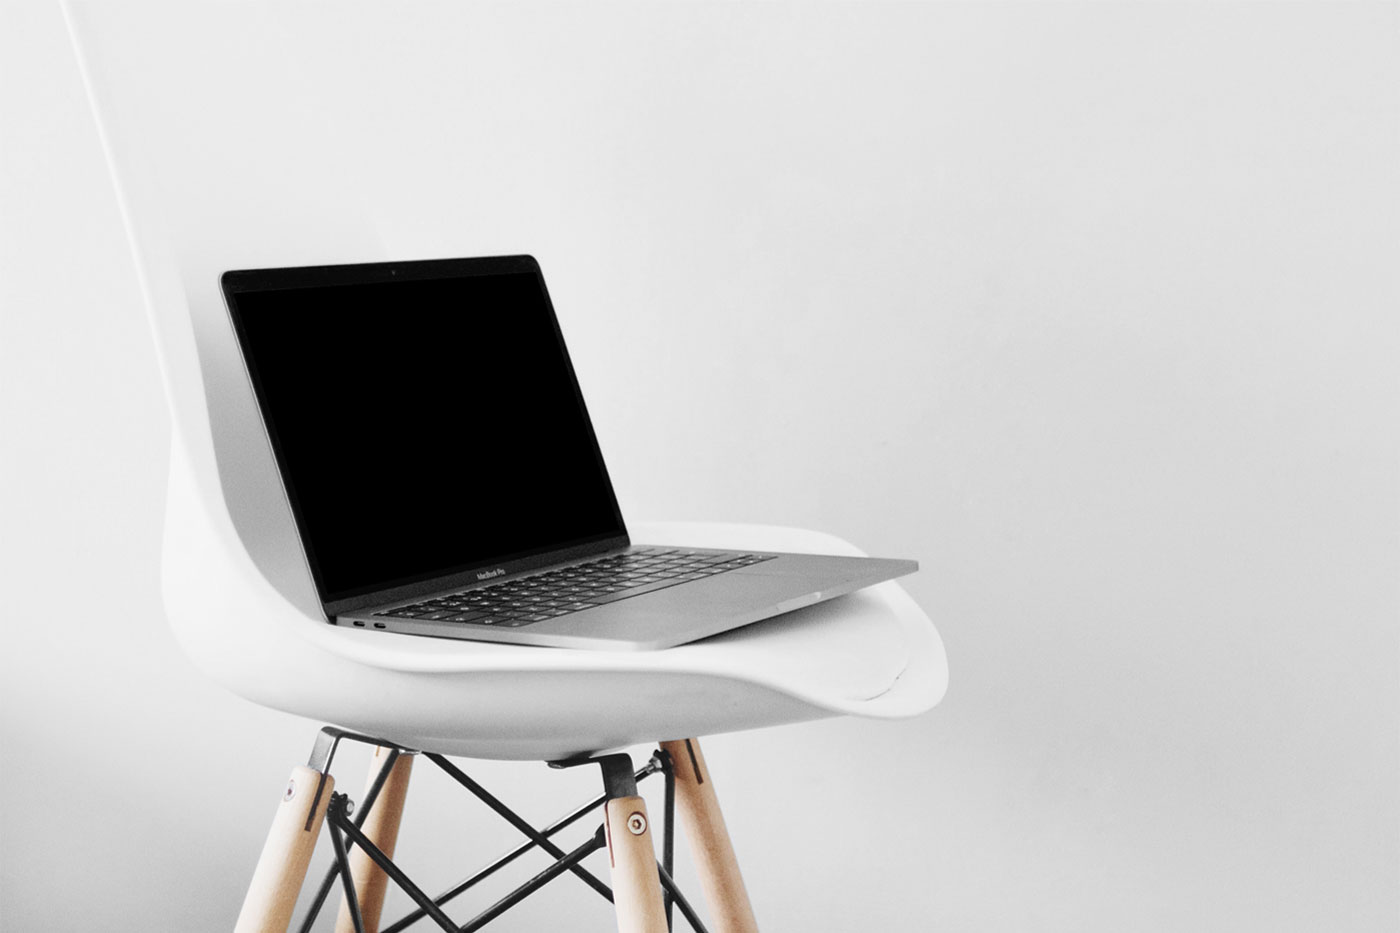
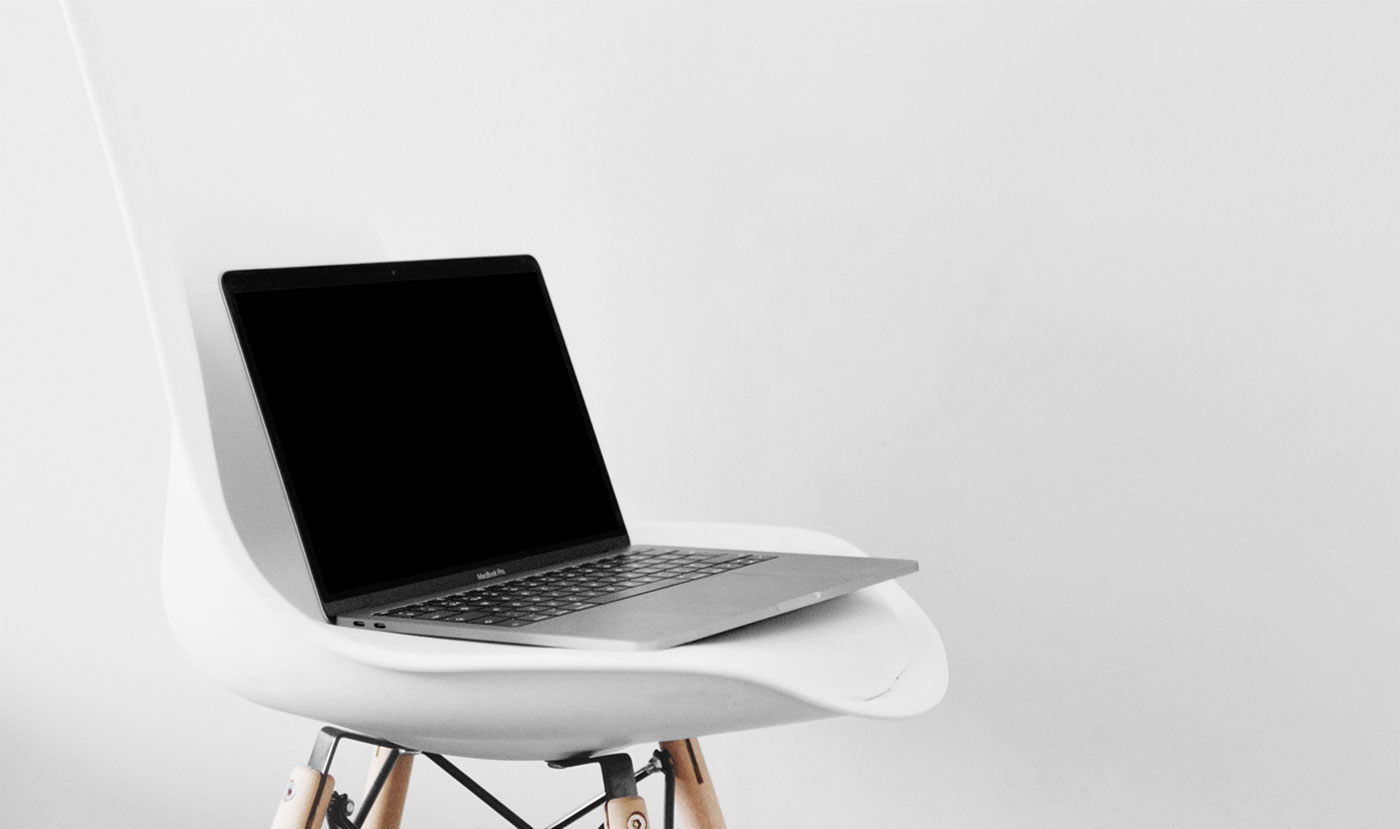
Update

Changed region(s): [[0.1229, 0.2714, 0.6757, 1.0]]

diff --git a/index.html b/index.html
@@ -1,45 +1,43 @@
 <!DOCTYPE html>
 <html lang="en">
-	<head>
-		<meta charset="UTF-8" />
-		<meta name="viewport" content="width=device-width, initial-scale=1.0" />
-		<title>One Page</title>
-		<link rel="stylesheet" href="src/style.css" />
-	</head>
-	<body>
-		<header id="header">
-			<nav>
-				<ul id="menu">
-					<li>
-						<a href="#header">
-							<img id="logo" src="images/logo.png" alt="logo" />
-						</a>
-					</li>
-					<li><a href="#header">HOME</a></li>
-					<li><a href="#about">ABOUT</a></li>
-					<li><a href="#work">WORK</a></li>
-					<li><a href="#process">PROCESS</a></li>
-					<li><a href="#services">SERVICES</a></li>
-					<li><a href="#testimonials">TESTIMONIALS</a></li>
-					<li><a href="#contact">CONTACT</a></li>
-				</ul>
-			</nav>
-		</header>
-		<section>
-			<h1>We Design and Develop</h1>
-			<p class="sub-text">
-				We are a new design studio based in USA. We have over 20 years of
-				combined experience, and know a thing or two about designing websites
-				and mobile apps.
-			</p>
-			<button class="secondary-color-background">CONTACT US</button>
-		</section>
-		<section></section>
-		<section></section>
-		<section></section>
-		<section></section>
-		<section></section>
-		<section></section>
-		<footer></footer>
-	</body>
+   <head>
+      <meta charset="UTF-8" />
+      <meta name="viewport" content="width=device-width, initial-scale=1.0" />
+      <title>One Page</title>
+      <link rel="stylesheet" href="src/style.css" />
+   </head>
+   <body>
+      <section class="laptop-section">
+         <header>
+            <a href="header">
+               <img id="logo" src="images/logo.png" alt="logo" />
+            </a>
+            <nav>
+               <ul class="menu">
+                  <li><a href="#header">HOME</a></li>
+                  <li><a href="#about">ABOUT</a></li>
+                  <li><a href="#work">WORK</a></li>
+                  <li><a href="process">PROCESS</a></li>
+                  <li><a href="#services">SERVICES</a></li>
+                  <li><a href="#testimonials">TESTIMONIALS</a></li>
+                  <li><a href="#contact">CONTACT</a></li>
+               </ul>
+            </nav>
+         </header>
+         <h1>We Design and Develop</h1>
+         <p class="sub-text">
+            We are a new design studio based in USA. We have over 20 years of
+            combined experience, and know a thing or two about designing
+            websites and mobile apps.
+         </p>
+         <button class="secondary-color-background">CONTACT US</button>
+      </section>
+      <section></section>
+      <section></section>
+      <section></section>
+      <section></section>
+      <section></section>
+      <section></section>
+      <footer></footer>
+   </body>
 </html>

diff --git a/src/style.css b/src/style.css
@@ -1,40 +1,51 @@
 :root {
-	--sub-color: #8e8e8e;
-	--secondary-color: #10c9c3;
+   --sub-color: #8e8e8e;
+   --secondary-color: #10c9c3;
 }
 
 * {
-	margin: 0;
-	padding: 0;
-	font-family: sans-serif;
-	font-weight: bold;
+   margin: 0;
+   padding: 0;
+   box-sizing: border-box;
+   font-family: sans-serif;
+   font-weight: bold;
 }
 
-#menu {
-	display: flex;
-	gap: 1rem;
-	list-style-type: none;
-	justify-content: flex-end;
+header {
+   border: 1px solid black;
+   display: flex;
+   align-items: center;
+   justify-content: space-between;
+   padding: 1rem 7rem;
+   letter-spacing: 1.5px;
 }
 
-#menu:first-child {
-	margin-left: auto;
+.menu {
+   display: flex;
+   gap: 1rem;
+   list-style-type: none;
+   justify-content: flex-end;
 }
 
-#menu > li {
-	display: grid;
-	place-items: center;
+.menu > li {
+   display: grid;
+   place-items: center;
 }
 
-#menu > li a {
-	text-decoration: none;
-	color: black;
+.menu > li a {
+   text-decoration: none;
+   color: black;
 }
 
-#menu > li:nth-child(2) a {
-	color: var(--secondary-color);
+.menu > li:nth-child(1) a {
+   color: var(--secondary-color);
 }
 
+.laptop-section {
+   background: url("../images/laptop.png") no-repeat bottom center;
+   background-size: 100%;
+   height: 50rem;
+}
 #logo {
-	width: 5rem;
+   width: 3rem;
 }
